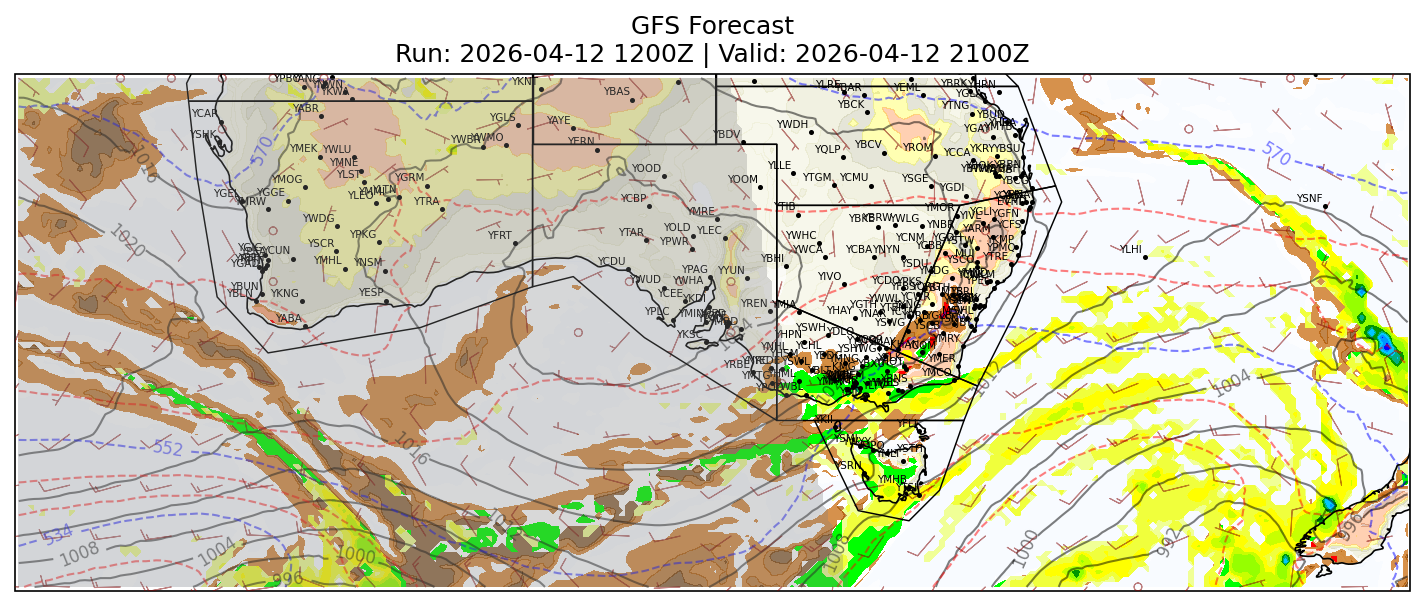
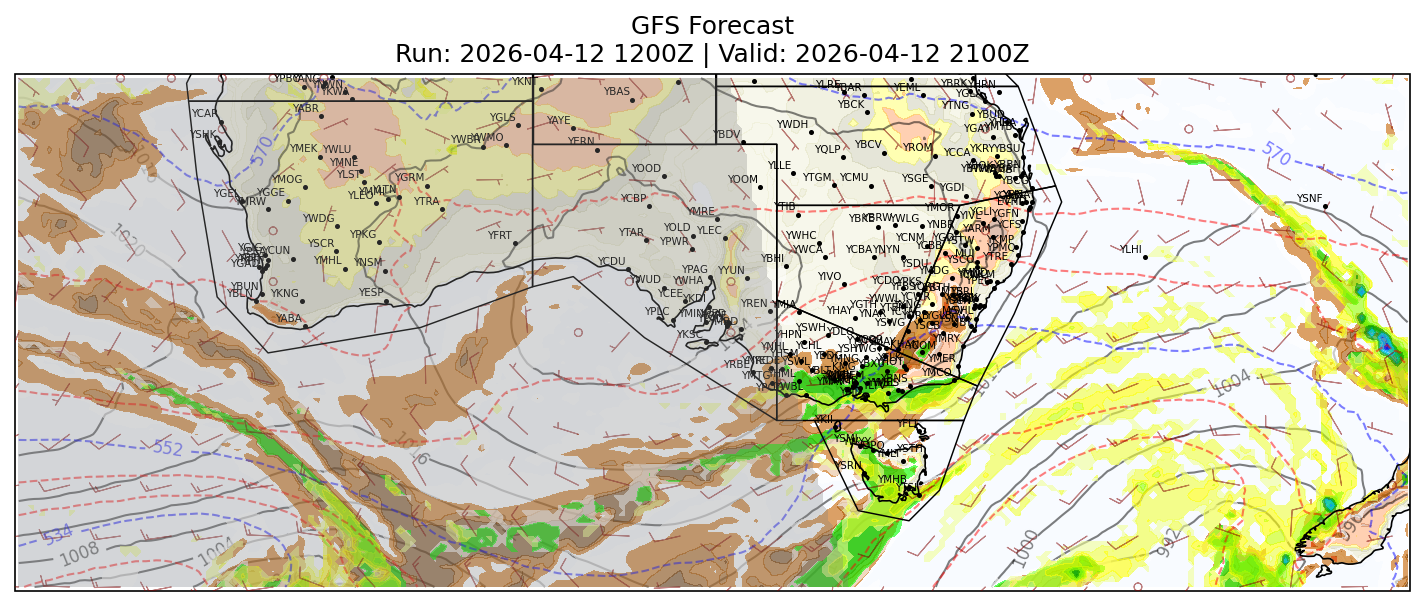
Update map generation: adjust z-order and layer transparency

diff --git a/generate_maps.py b/generate_maps.py
@@ -1313,12 +1313,12 @@ def plot_map(data, init_time, forecast_hour, model_name='GFS', layer_profile='bg
         z_coast = 9
         z_borders = 9
         z_gaf = 9
-        z_mslp = 6
-        z_thickness = 7
-        z_low_cloud = 2
+        z_mslp = 2
         z_fog = 3
-        z_drizzle = 4
-        z_bg_precip = 5
+        z_low_cloud = 4
+        z_drizzle = 5
+        z_bg_precip = 6
+        z_thickness = 7
         z_bg_barbs = 8
         z_taf_points = 10
         z_taf_text = 11
@@ -1634,7 +1634,7 @@ def plot_map(data, init_time, forecast_hour, model_name='GFS', layer_profile='bg
             levels=cloud_levels,
             cmap=cloud_cmap,
             norm=cloud_norm,
-            alpha=0.7,
+            alpha=0.6,
             extend='max',
             transform=ccrs.PlateCarree(),
             zorder=z_low_cloud)
@@ -1663,7 +1663,7 @@ def plot_map(data, init_time, forecast_hour, model_name='GFS', layer_profile='bg
             levels=drizzle_levels,
             cmap=drizzle_cmap,
             norm=drizzle_norm,
-            alpha=1.0,
+            alpha=0.6,
             extend='max',
             transform=ccrs.PlateCarree(),
             zorder=z_drizzle)
@@ -2106,7 +2106,7 @@ def plot_map(data, init_time, forecast_hour, model_name='GFS', layer_profile='bg
             levels=fog_levels,
             cmap=fog_cmap,
             norm=fog_norm,
-            alpha=1.0,
+            alpha=0.6,
             transform=ccrs.PlateCarree(),
             zorder=z_fog)
 
@@ -2262,7 +2262,7 @@ def plot_map(data, init_time, forecast_hour, model_name='GFS', layer_profile='bg
             (200, 0, 0, 255),
             (50, 0, 0, 255),
         ]
-        precip_alpha = 1.0
+        precip_alpha = 0.6
         precip_zorder = z_bg_precip
 
     if precip_masked is not None: